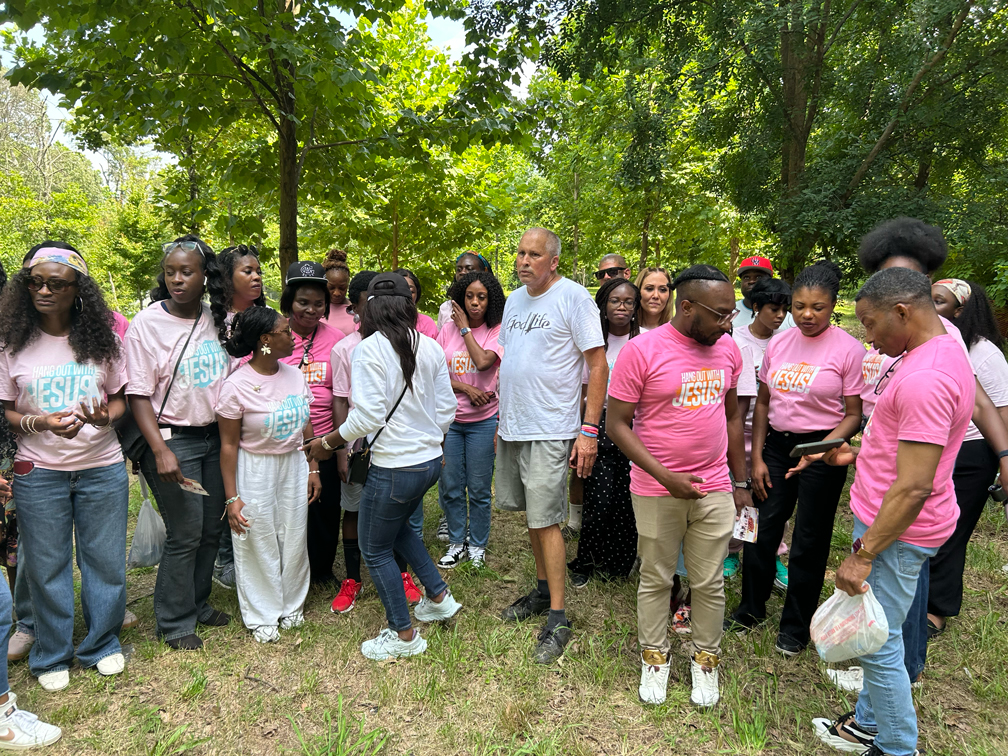
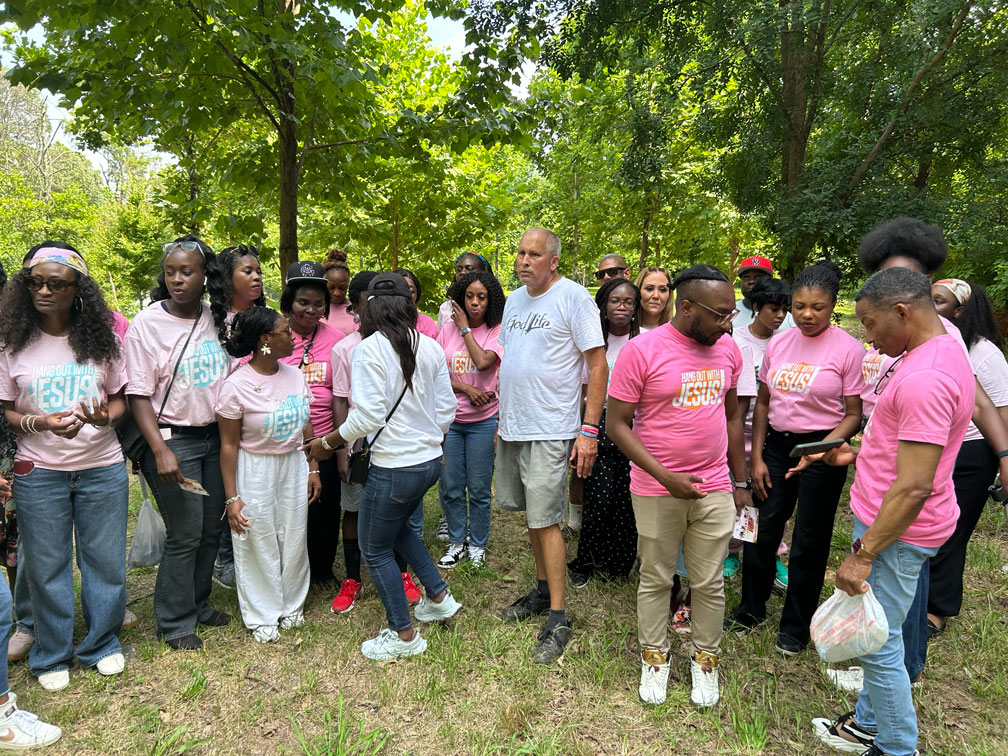
Record the 1,103 salvations across the 12 revivals
Writes the recorded soul counts into HOWJ Global's "Souls Impacted" property
(UK 1, Dubai 7, Chicago 1, Nigeria 74, Kenya 107, Ghana 27, Korea 16,
New York 51, Brazil 186, Atlanta 84, Bangladesh 479, India 70 — 1,103 total),
and updates the homepage recap to match: Bangladesh 479 and India 70, which
supersede the 50 and 24 carried over from the Figma mockup.

Note the property previously held a different metric — reach rather than
salvations (Kenya 10,000, Atlanta 4,000, Ghana 500, India 700) — and those
values are replaced per the decision to consolidate on one number. The
expression-page label therefore moves from "Total souls impacted" to
"Souls saved" so the copy matches what the field now contains.

Bangladesh's recap link swaps to its documentary, ejFWOKgYVVY.

diff --git a/src/components/RecapSection.jsx b/src/components/RecapSection.jsx
@@ -14,16 +14,16 @@ const REVIVALS = [
     poster: posterBangladesh,
     stats: [
       ['Attendance', '2,500'],
-      ['Souls Saved', '50'],
+      ['Souls Saved', '479'],
     ],
-    watchUrl: 'https://www.youtube.com/watch?v=YdK6r2_HOFU',
+    watchUrl: 'https://www.youtube.com/watch?v=ejFWOKgYVVY',
   },
   {
     name: 'India',
     poster: posterIndia,
     stats: [
       ['Attendance', '2,200'],
-      ['Souls Saved', '24'],
+      ['Souls Saved', '70'],
     ],
     watchUrl: 'https://www.youtube.com/watch?v=JML2kI0Vqto',
   },
